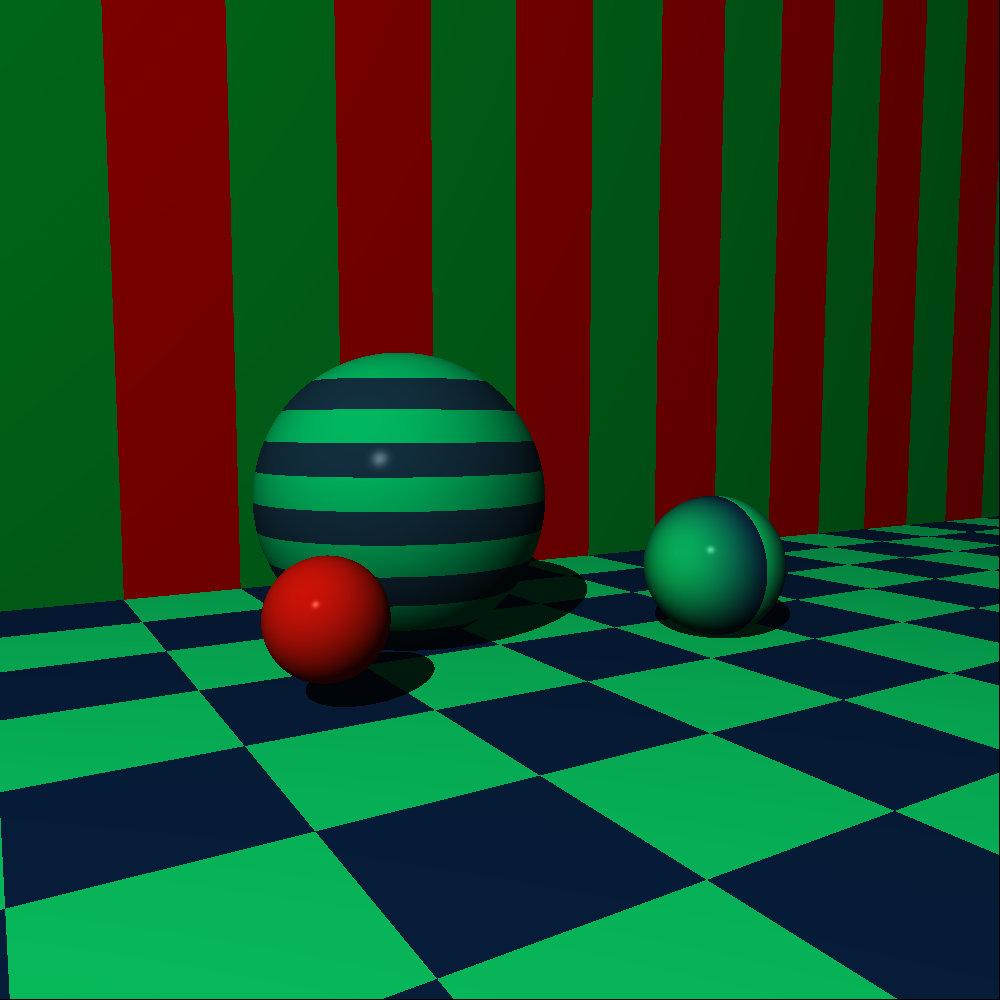
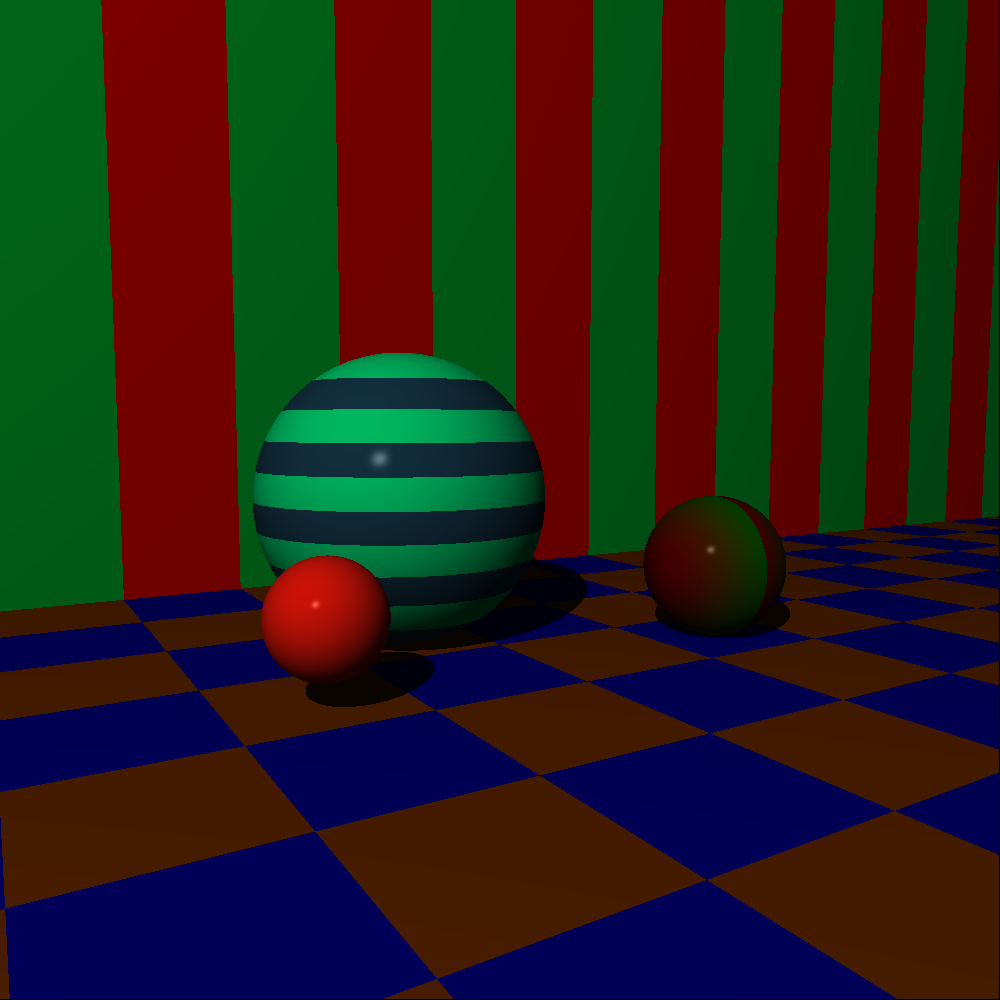
Added rayon with parallelism for rendering and other performance improvements

diff --git a/src/render/camera.rs b/src/render/camera.rs
@@ -2,7 +2,9 @@ use crate::render::{Canvas, World};
 use crate::units::tuple::{Point, Tuple};
 use crate::units::Ray;
 use crate::units::{Matrix, Transformable, IDENTITY_MATRIX};
-
+use rayon::prelude::*;
+use std::sync::Mutex;
+// use std::thread::
 pub struct Camera {
     pub hsize: usize,
     pub vsize: usize,
@@ -49,15 +51,16 @@ impl Camera {
     }
 
     pub fn render(&self, world: World) -> Canvas {
-        let mut image = Canvas::new(self.hsize, self.vsize);
-        for y in 0..image.height {
-            for x in 0..image.width {
+        let canvas = Mutex::new(Canvas::new(self.hsize, self.vsize));
+        (0..self.hsize).into_par_iter().for_each(|y| {
+            (0..self.vsize).into_par_iter().for_each(|x| {
                 let ray = self.ray_for_pixel(x, y);
                 let color = world.color_at(ray);
-                image.write_pixel(x, y, color);
-            }
-        }
-        image
+                let mut canvas = canvas.lock().unwrap();
+                canvas.write_pixel(x, y, color);
+            })
+        });
+        canvas.into_inner().unwrap()
     }
 }
 
@@ -117,7 +120,6 @@ impl Transformable for Camera {
 
 #[cfg(test)]
 mod tests {
-
     use super::*;
     use crate::units::color::QuantColor;
     use crate::units::tuple::{Tuple, Vector};

diff --git a/src/bin/main.rs b/src/bin/main.rs
@@ -183,8 +183,8 @@ fn render_plane_world(hsize: usize, vsize: usize) {
             Material::default()
                 .set_pattern(Some(
                     Pattern::new(PatternType::Checkers(
-                        QuantColor::new(10, 255, 125),
-                        QuantColor::new(10, 40, 80),
+                        QuantColor::new(0, 0, 125),
+                        QuantColor::new(100, 40, 0),
                     ))
                     .translate(10, 0, 0)
                     .scale(0.1, 0.1, 0.1),
@@ -230,8 +230,8 @@ fn render_plane_world(hsize: usize, vsize: usize) {
                 .set_color(QuantColor::new(10, 255, 125))
                 .set_pattern(Some(
                     Pattern::new(PatternType::Gradient(
-                        QuantColor::new(10, 255, 125),
-                        QuantColor::new(10, 40, 80),
+                        QuantColor::new(100, 0, 0),
+                        QuantColor::new(0, 100, 0),
                     ))
                     .rotate_x(consts::FRAC_PI_2),
                 ))

diff --git a/src/world/patterns.rs b/src/world/patterns.rs
@@ -33,7 +33,7 @@ impl PatternType {
     }
 
     fn gradient_color(&self, point: Point, color_a: QuantColor, color_b: QuantColor) -> QuantColor {
-        let distance = color_b - color_a;
+        let distance: QuantColor = color_b - color_a;
         let fraction = point.x - point.x.floor();
 
         color_a + (distance * fraction)

diff --git a/src/render/canvas.rs b/src/render/canvas.rs
@@ -16,6 +16,11 @@ pub struct Canvas {
     pub pixels: Vec<Vec<QuantColor>>,
 }
 
+pub struct CanvasPart {
+    pub size: usize,
+    pub pixels: Vec<Vec<QuantColor>>,
+}
+
 impl Canvas {
     /// Returns new blank canvas of given width and height
     ///

diff --git a/src/render/mod.rs b/src/render/mod.rs
@@ -2,7 +2,6 @@
 pub mod camera;
 pub mod canvas;
 pub mod world;
-
 pub use camera::Camera;
-pub use canvas::Canvas;
+pub use canvas::{Canvas, CanvasPart};
 pub use world::World;

diff --git a/README.md b/README.md
@@ -10,4 +10,5 @@ I have coded quite a bit of it, but decided to upload each chapter in a clean wa
 
 ## Dependencies
 
-I only have a single depency that is required for build - `image-rs`. Because rust Standard Library lacks any kind of image processing and I dislike .ppm files.
+* `image-rs` - aka "I simply hate working with PPM files." And you can't really flex with PPM's
+* `rayon` - image rendering improvements. (I am stupid and have no idea how to actually make this code threaded, so instead I am trying to clobber this using parallelism. Shockingly performance improvements are incredible. World rendering with rayon is only 15s for the canvas of 100/100 while without it the average render time is 40s. In the release with the canvas of 1000/1000 pixels the rendering without rayon is 120s average, with rayon it averages to 50s.
